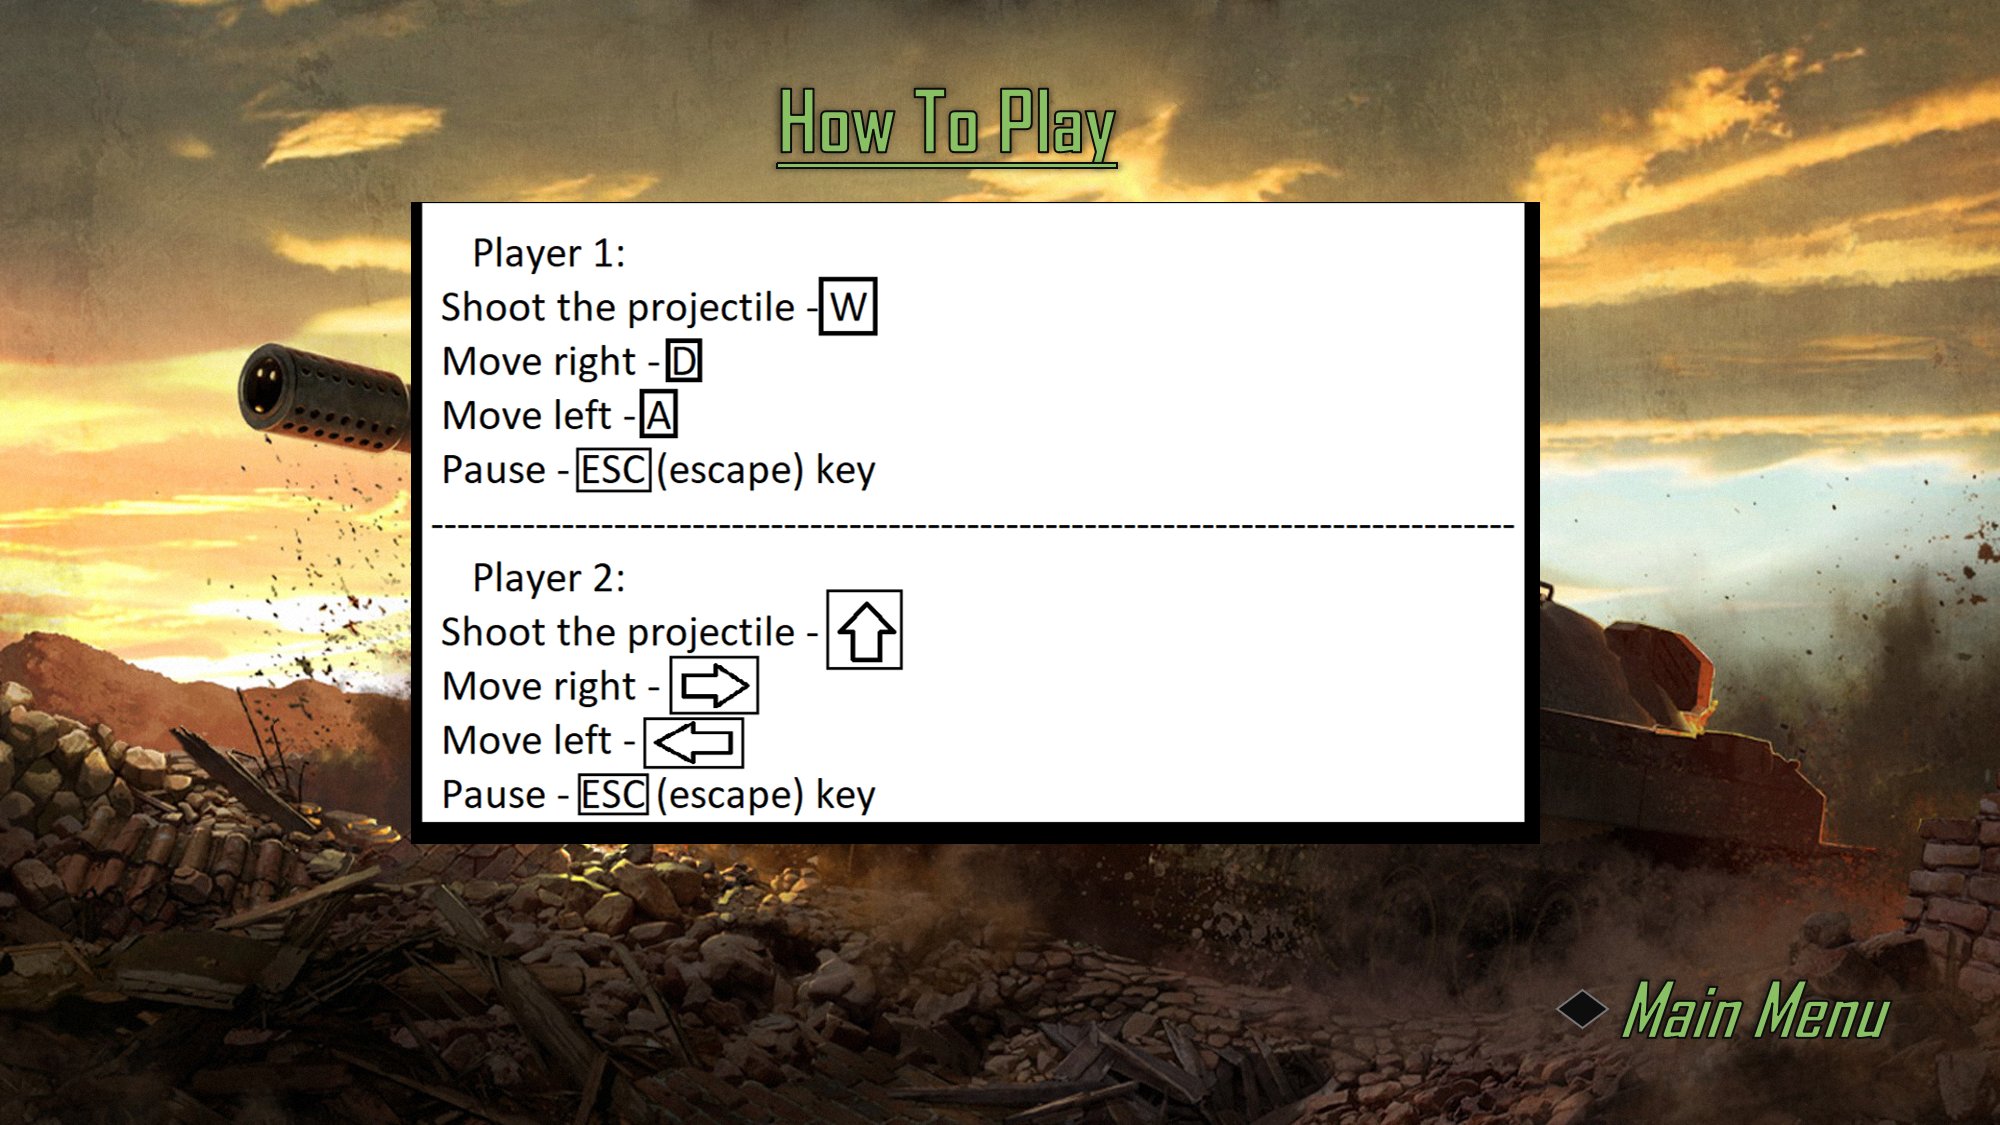
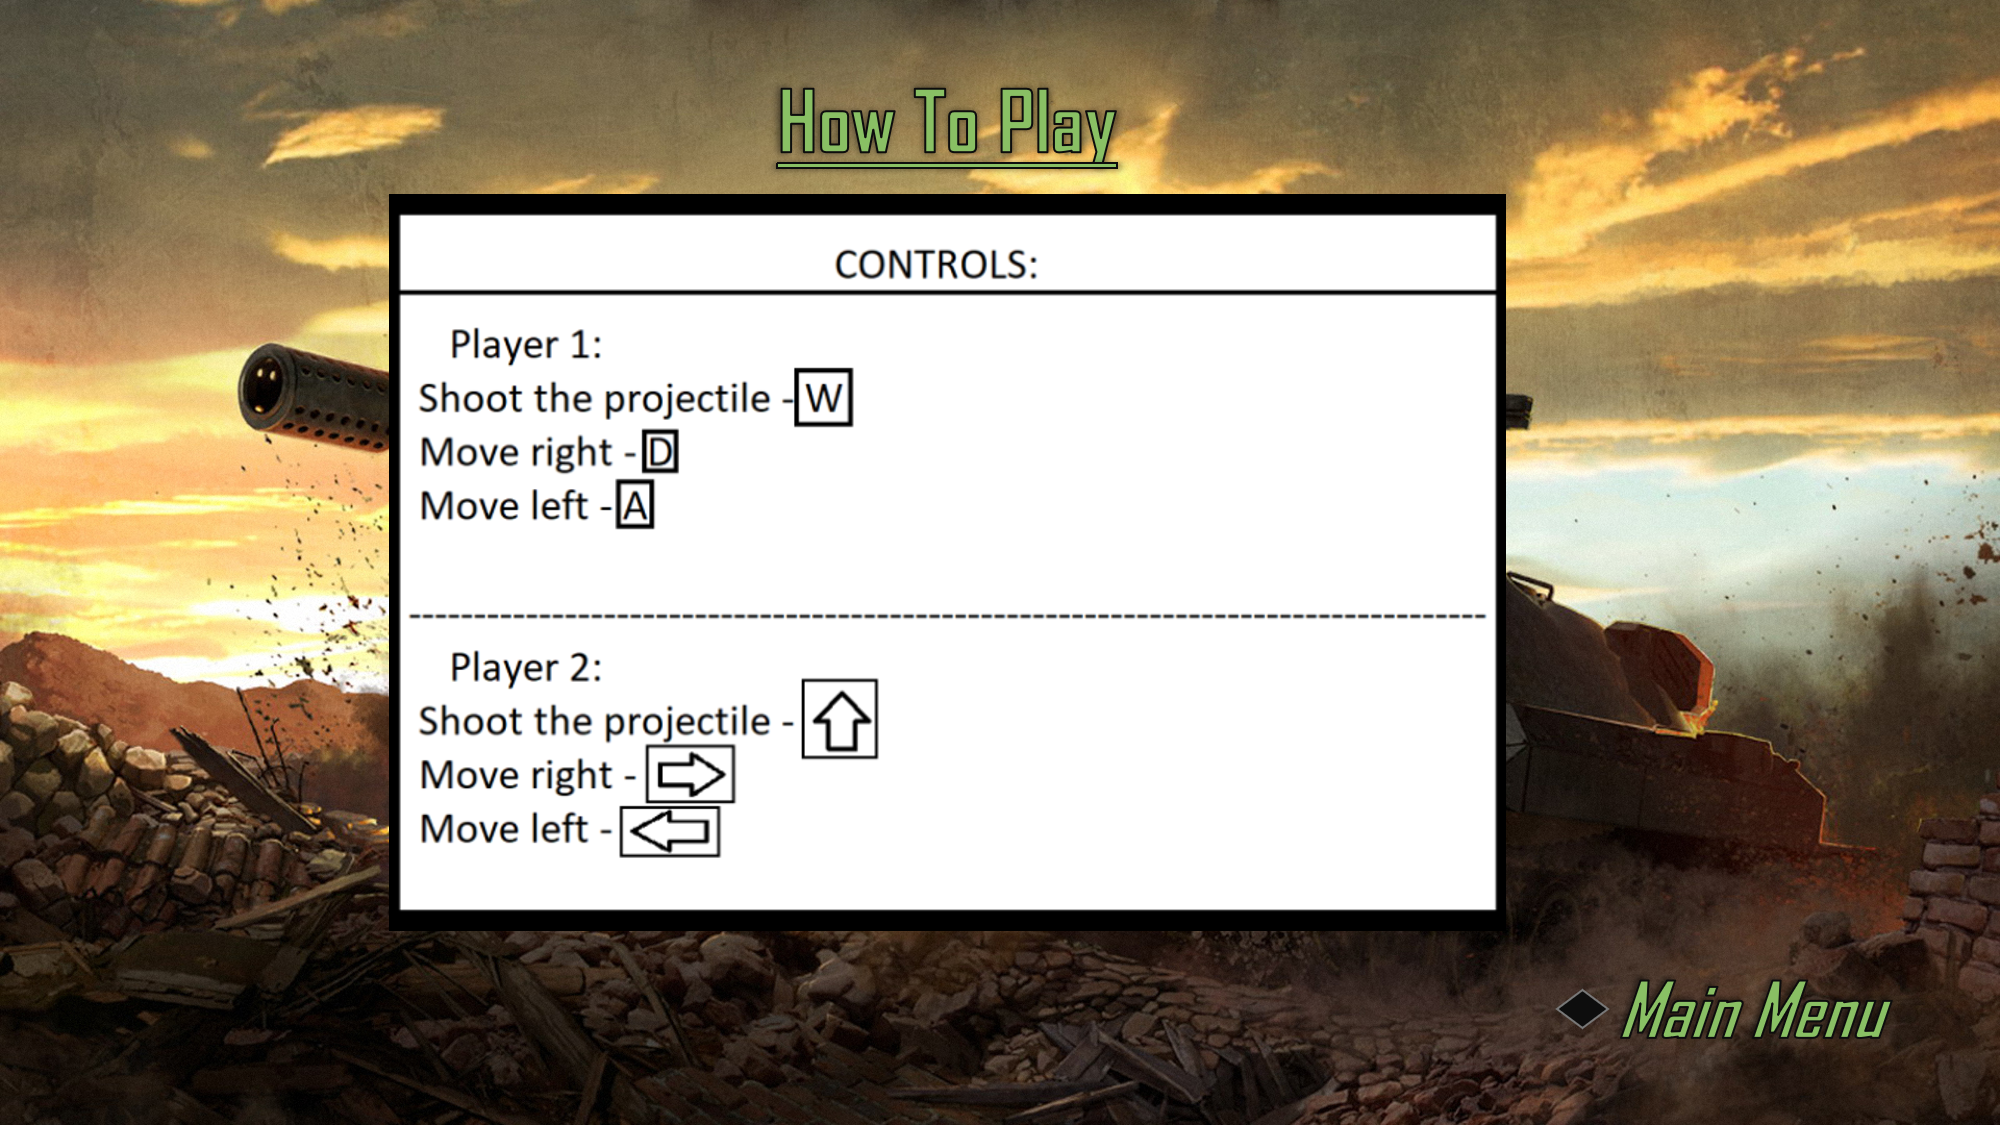
Craeted health for user, created an in-game timer. And also changed control screen, and mainmenuscreen.

diff --git a/group-project/src/starter/Gameplay.java b/group-project/src/starter/Gameplay.java
@@ -57,7 +57,7 @@ public class Gameplay extends GraphicsProgram implements ActionListener,KeyListe
 	private Timer singlePlayerTimer = new Timer(50, this);
 	private Timer controlScreenTimer = new Timer(1000, this);
 	private Timer scoreboardScreenTimer = new Timer(1000,this);
-	private Timer gameTimer = new Timer(1000, this); //used to track if user is in game
+	private Timer gameTimer = new Timer(1000, this); //used to time in game, if run out, then you lose.
 	private Timer animationTimer = new Timer(1000, this);
 
 	
@@ -66,16 +66,18 @@ public class Gameplay extends GraphicsProgram implements ActionListener,KeyListe
 	private ArrayList<GRect> playerShields = new ArrayList<GRect>();
 	private int enemyMovementSpeed = -4;
 	
-	//List of Single player tank movement variables, score, and image
+	//List of Single player tank movement variables, score, health, and image
 	private GImage singlePlayerTank = new GImage("blue tank.png");
 	private int singlePlayerTankStartingXCoord = 800;
-	private int singlePlayerTankStartingYCoord = 800 ;
+	private int singlePlayerTankStartingYCoord = 750;
 	private int singlePlayerArrIndex = 0;
 	private int singlePlayerSpeedX = 6; 
 	private ArrayList<Integer> singlePlayerScores = new ArrayList<Integer>();
 	private int gameNumber = -1;
-	private GLabel singlePlayerScoreLabel = new GLabel("Score: ", 30, 600);
-	
+	private GLabel singlePlayerScoreLabel = new GLabel("Score: ", 30, 880);
+	private int singlePlayerTankHealth = 10;
+	private GLabel singlePlayerHealthLabel = new GLabel("Health: ", 1350, 880);
+	private GLabel timerLabel = new GLabel("Time Left: ", 650, 880);
 	private ArrayList<Projectile> singlePlayerProjectiles = new ArrayList<Projectile>();
 	private ArrayList<Projectile> enemyProjectiles = new ArrayList<Projectile>();
 
@@ -95,6 +97,10 @@ public class Gameplay extends GraphicsProgram implements ActionListener,KeyListe
 	private int explodeNumber = 0;
 	private int animateNumber = 0;
 	private int singlePlayerFireNumber = 0; //used for user fire delay
+	private int gameTime = 80; 
+	private int gameTimeAmount = 0; //used for game time delay
+
+	
 	
 	public void init() {
 		setSize(PROGRAM_WIDTH, PROGRAM_HEIGHT);
@@ -176,14 +182,14 @@ public class Gameplay extends GraphicsProgram implements ActionListener,KeyListe
 	
 	//Key Input Listeners
 	public void keyPressed(KeyEvent e) {
-		if(gameTimer.isRunning()) {
-			if (e.getKeyCode() == 27) {
-				System.out.println("You pressed *esc* ");
-				singlePlayerTimer.start();
-				pauseGame();
-			}
-		}
-		//Single Player Tank Movement and Fire
+//		if(gameTimer.isRunning()) {
+//			if (e.getKeyCode() == 27) {
+//				System.out.println("You pressed *esc* ");
+//				singlePlayerTimer.start();
+//				pauseGame();
+//			}
+//		}
+//		//Single Player Tank Movement and Fire
 	     if(singlePlayerTimer.isRunning()) {
 			int moveKeyCode = e.getKeyCode();
 	        if(moveKeyCode == 68){ //"d" right movement
@@ -249,24 +255,22 @@ public class Gameplay extends GraphicsProgram implements ActionListener,KeyListe
 	
 		}		
 		//pause screen button recognition 
-		if(pauseTimer.isRunning()) {
-			if(pauseReturnMainMenuPressed) {
-				singlePlayerTimer.stop();
-				gameTimer.stop();
-				pauseTimer.stop();
-				pauseReturnMainMenuPressed = false;
-				displayMenu();
-			}
-			if(resumeButtonPressed) {
-				pauseTimer.stop();
-				singlePlayerTimer.stop();
-				gameTimer.stop();
-				//Temporary here, later we must figure out how to resume a game properly.
-				singlePlayerMode();
-
-			}
-			
-		}
+//		if(pauseTimer.isRunning()) {
+//			if(pauseReturnMainMenuPressed) {
+//				singlePlayerTimer.stop();
+//				gameTimer.stop();
+//				pauseTimer.stop();
+//				pauseReturnMainMenuPressed = false;
+//				displayMenu();
+//			}
+//			if(resumeButtonPressed) {
+//				pauseTimer.stop();
+//				singlePlayerTimer.stop();
+//				gameTimer.stop();
+//				//Temporary here, later we must figure out how to resume a game properly.
+//				singlePlayerMode();
+//			}
+//		}
 		if(singlePlayerTimer.isRunning()) {
 			enemyMovement();
 			singlePlayerMoveProjectile();
@@ -274,6 +278,7 @@ public class Gameplay extends GraphicsProgram implements ActionListener,KeyListe
 			if(enemyImages.isEmpty() && pauseTimer.isRunning() == false) {
 				userWin();
 			}
+			displayHealthInGame();
 		}
 		if(animationTimer.isRunning()) {
 			animateNumber++;
@@ -312,7 +317,14 @@ public class Gameplay extends GraphicsProgram implements ActionListener,KeyListe
 				displayMenu();
 			}
 		}
-		
+		if(gameTimer.isRunning()) {
+			gameTimeAmount++;
+			if(gameTimeAmount == 21) {
+				gameTime--;
+				gameTimeAmount = 0;
+				displayTimerInGame();
+			}
+		}
 	}
 	
 	
@@ -323,6 +335,7 @@ public class Gameplay extends GraphicsProgram implements ActionListener,KeyListe
 	public void displayMenu() { //displays menu screen here
 		System.out.println("Main menu entered.");
 		removeAll();
+		mainMenuScreen.setSize(1600, 900);
 		add(mainMenuScreen);
 		add(singlePlayerButton);
 		add(coopButton);
@@ -359,8 +372,12 @@ public class Gameplay extends GraphicsProgram implements ActionListener,KeyListe
 	    add(singlePlayerTank,singlePlayerTankStartingXCoord,singlePlayerTankStartingYCoord);
 	    singlePlayerScores.add(0);
 	    gameNumber++;
+	    timerLabel.setFont("AgencyFB-Bold-42");
+	    add(timerLabel);
 		singlePlayerScoreLabel.setFont("AgencyFB-Bold-40");
 	    add(singlePlayerScoreLabel);
+	    singlePlayerHealthLabel.setFont("AgencyFB-Bold-40");
+	    add(singlePlayerHealthLabel);
 	   
 	}
 	
@@ -569,7 +586,21 @@ public class Gameplay extends GraphicsProgram implements ActionListener,KeyListe
 	public void displayScoreInGame() { //displays the score board in game
 		singlePlayerScoreLabel.setLabel("Score: " + singlePlayerScores.get(gameNumber));
 		add(singlePlayerScoreLabel);
-
+		
+	}
+	
+	public void displayTimerInGame() { //displays the time left in game
+		timerLabel.setLabel("Time Left: " + gameTime);
+		add(timerLabel);
+	}
+	
+	public void decreaseHealth() { //Calculates the health of the user
+		singlePlayerTankHealth--;
+	}
+	
+	public void displayHealthInGame() { //displays the health in game.
+		singlePlayerHealthLabel.setLabel("Health: " + singlePlayerTankHealth);
+		add(singlePlayerHealthLabel);
 	}
 	
 	public void pasteEnemies() {
